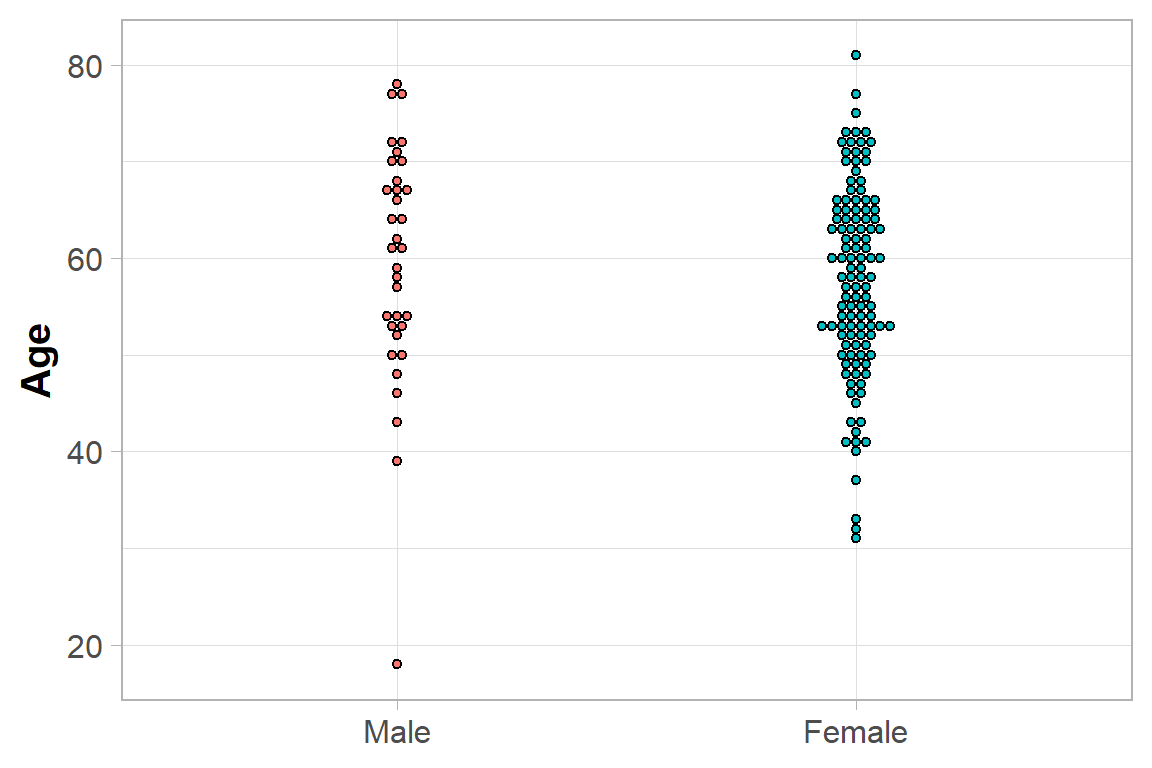
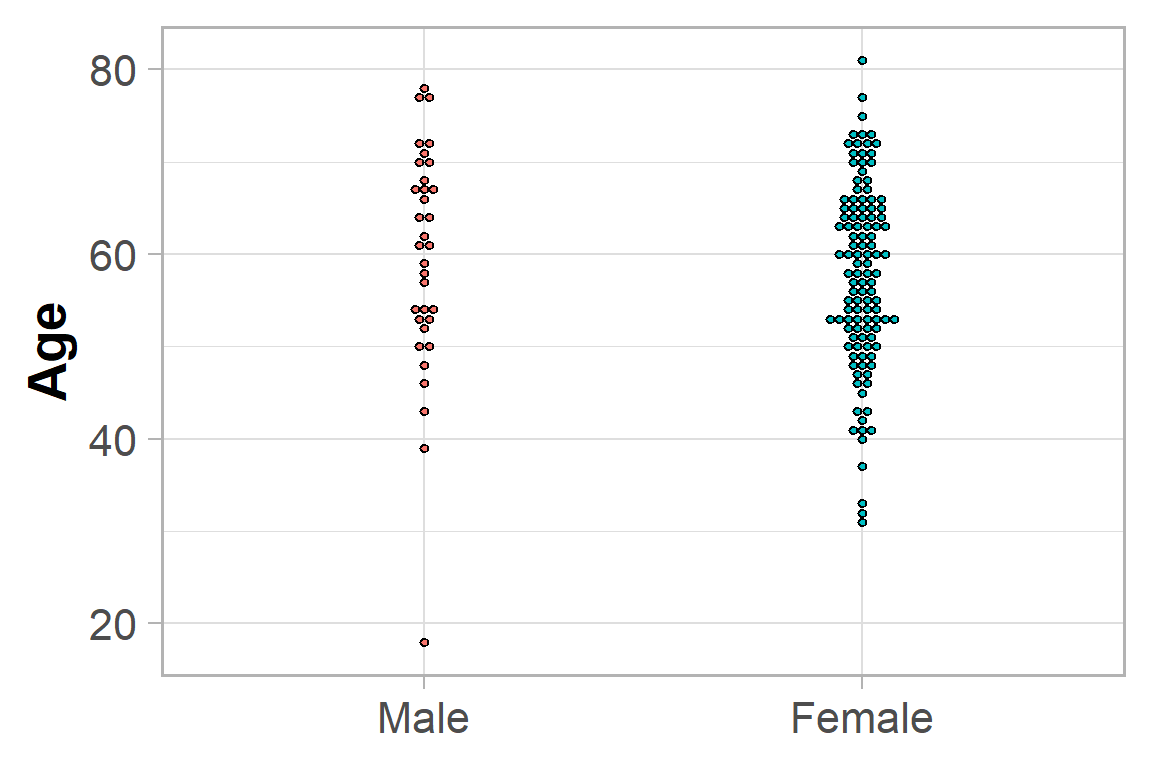
WIP slides

diff --git a/index.html b/index.html
@@ -665,7 +665,7 @@
 <span id="cb5-5"><a href="#cb5-5"></a>               <span class="at">stackdir =</span> <span class="st">'center'</span>) <span class="sc">+</span></span>
 <span id="cb5-6"><a href="#cb5-6"></a>  <span class="fu">labs</span>(<span class="at">x =</span> <span class="cn">NULL</span>, </span>
 <span id="cb5-7"><a href="#cb5-7"></a>       <span class="at">y =</span> <span class="st">'Age'</span>) <span class="sc">+</span></span>
-<span id="cb5-8"><a href="#cb5-8"></a>  <span class="fu">theme_light</span>(<span class="at">base_size =</span> <span class="dv">15</span>) <span class="sc">+</span> </span>
+<span id="cb5-8"><a href="#cb5-8"></a>  <span class="fu">theme_light</span>(<span class="at">base_size =</span> <span class="dv">20</span>) <span class="sc">+</span> </span>
 <span id="cb5-9"><a href="#cb5-9"></a>  <span class="fu">theme</span>(<span class="at">legend.position =</span> <span class="st">'none'</span>,</span>
 <span id="cb5-10"><a href="#cb5-10"></a>        <span class="at">axis.title =</span> <span class="fu">element_text</span>(<span class="at">face =</span> <span class="st">'bold'</span>)) </span></code><button title="Copy to Clipboard" class="code-copy-button"><i class="bi"></i></button></pre></div>
 </div><div class="column">
